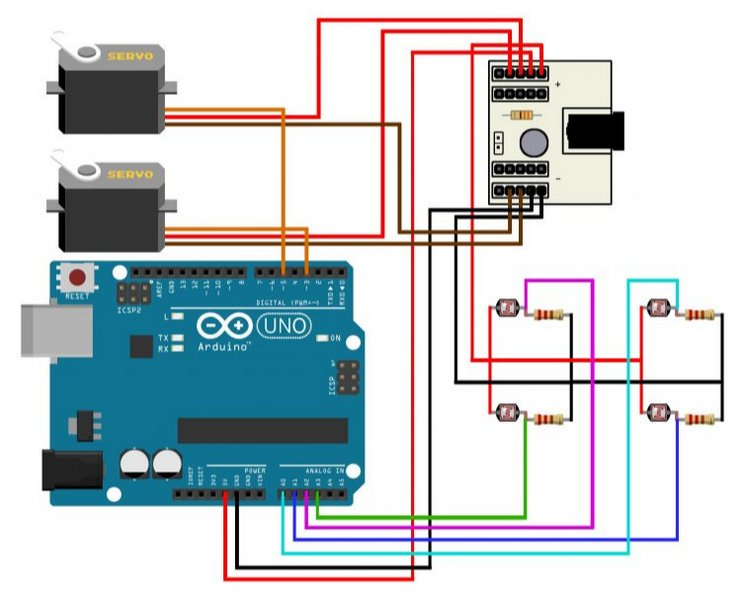
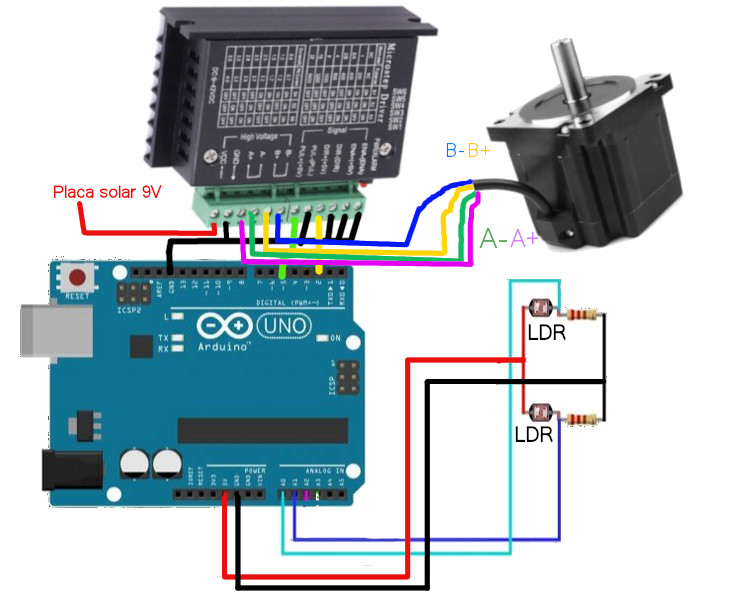
:sparkles: mudanca no motor

diff --git a/README.md b/README.md
@@ -4,29 +4,22 @@ Instruções de montagem para o trabalho Neosymbiota Lucens tentativa 1
 
 Essa parte do trabalho (do rastreador de luz) foi montado a partir da [ref 1](https://www.usinainfo.com.br/blog/rastreador-solar-com-arduino-um-seguidor-solar-atraves-de-ldr/?srsltid=AfmBOopmhUIaa4iWFgExYoY_OMAmqnunysOihkISRG3wj58gcAvz8ka0).
 O rastreador usa LDR (Light Dependent Resistor, isto é, resistores variáveis com a luz) para detectar a presença de luz em 4 quadrantes divididos por uma altura, de modo que faça sombra nos demais LDRs quando não está alinhado com a fonte de luz.
-Para ajustar a posição do circuito de modo a se alinhar com a fonte de luz, foram usados 2 servo motores MG966R, que são motores servo de rotação CONTÍNUA. Um motor gira entre esquerda e direita na horizontal, e o outro gira para cima e para baixo, na vertical, perpendicular ao outro motor.
+Para ajustar a posição do circuito de modo a se alinhar com a fonte de luz, foram usados 1 motor de passo Nema 23. O motor gira para cima e para baixo, na vertical.
 ```
-            |   
-     A2     |     A0    
-------------|-------------
-     A3     |     A1
-            |
+|            |   
+|     A0     |    
+|-------------
+|     A1     |     
+|            |
 ```
 
-O algoritmo funciona a partir da diferença entre a luz percebida entre os LDRs (conectados em A0, A1, A2, A3). Quando a luz tem mais intensidade:
-- A direita, o motor horizontal gira no sentido ANTI HORARIO
-- A esquerda, o motor horizontal gira no sentido HORARIO
+O algoritmo funciona a partir da diferença entre a luz percebida entre os LDRs (conectados em A0, A1). Quando a luz tem mais intensidade:
 - Acima, o motor vertical gira no sentido ANTI HORARIO
 - Abaixo, o motor vertical gira no sentido HORARIO
 
-## *UMA OBSERVAÇÃO IMPORTANTE*
-
-O servo motor utilizado é de rotação contínua, então, apesar das conexões serem idênticas ao do motor servo de passo, o motor de rotação contínua gira 360 graus. Também, a escrita nele não indica quantos graus o motor virará, na verdade, ele usa 
-- 0 para rotação no sentido HORARIO
-- 90 para PARAR
-- 180 para rotação no sentido ANTI HORARIO
 
 ![Diagrama do projeto](./imgs/rastreador.jpg)
+![Mecânica do projeto](./imgs/Rastreador%20de%20luz%20solar.drawio.png)
 Créditos da imagem para [ref 1](https://www.usinainfo.com.br/blog/rastreador-solar-com-arduino-um-seguidor-solar-atraves-de-ldr/?srsltid=AfmBOopmhUIaa4iWFgExYoY_OMAmqnunysOihkISRG3wj58gcAvz8ka0)
 
 ## Funcionalidades
@@ -41,11 +34,20 @@ Integração do Arduino UNO com
 
 ## Componentes
 
-Proposta de conexões com 2 motores servo e o circuito com 4 LDR para detectar a direção da luz
+Proposta de conexões com 1 motor de passo e o circuito com 2 LDR para detectar a direção da luz
 
 * Bomba
 * Placa solar
 * Bateria 9V recarregável
-* 4 LDR
-* 4 resistores 220 ohm
-* 2 servo motores
+* 2 LDR
+* 2 resistores 220 ohm
+* [1 motor de passo 3A 45kgf cm](https://produto.mercadolivre.com.br/MLB-2028330458-motor-de-passo-nema-34-45kgfcm-3a-router-cnc-_JM#polycard_client=search-nordic&search_layout=grid&position=14&type=item&tracking_id=ecc9325b-f903-4968-a8a2-4356f20a9e44&wid=MLB2028330458&sid=search)
+![Motor de passo](./imgs/motor-passo.png)
+* [Driver para motor de passo TB6600](https://produto.mercadolivre.com.br/MLB-5272675760-placa-controladora-driver-motor-de-passo-4a-42v-tb6600-_JM#polycard_client=search-nordic&search_layout=stack&position=4&type=item&tracking_id=f14acee4-30a2-4d14-ba08-d87b7267c537&wid=MLB5272675760&sid=search)
+* [1 kit de redução 4:1](https://produto.mercadolivre.com.br/MLB-4501588822-kit-reduco-gt2-41-10mm-2080-dentes-furo-5mm-correia-400mm-_JM#polycard_client=search-nordic&search)
+![Polias de redução de torque](./imgs/polias.png)
+* [Mancal + eixo](https://www.mercadolivre.com.br/02-mancal-pedestal-com-rolamento-ucp204--eixo-20mm-x-400mm/up/MLBU1975068392?pdp_filters=item_id%3AMLB3346182395#origin=share&sid=share&wid=MLB3346182395&action=copy)
+![Mancal e eixo](./imgs/mancal.png)
+* [1 acoplador 5mm (polia) para 12,7mm (motor) especificar no pedido](https://produto.mercadolivre.com.br/MLB-1608286009-acoplamento-rigido-varias-medidas-para-motor-_JM?matt_tool=92013967&matt_internal_campaign_id=&matt_word=&matt_source=google&matt_campaign_id=22603531565&matt_ad_group_id=184689824807&matt_match_type=&matt_network=g&matt_device=c&matt_creative=758138322203&matt_keyword=&matt_ad_position=&matt_ad_type=pla&matt_merchant_id=5439757935&matt_product_id=MLB1608286009&matt_product_partition_id=2425720730334&matt_target_id=aud-1966009190540:pla-2425720730334&cq_src=google_ads&cq_cmp=22603531565&cq_net=g&cq_plt=gp&cq_med=pla&gad_source=1&gad_campaignid=22603531565&gclid=Cj0KCQjw58PGBhCkARIsADbDilx1ZdUIPXbaFDZqbduLQUmVu4lyq1_-u31c1q-Mtnt8WzUd3ycn9ScaAgO0EALw_wcB)
+* [1 acoplador 5mm (polia) para 19mm (eixo) especificar no pedido](https://produto.mercadolivre.com.br/MLB-1608286009-acoplamento-rigido-varias-medidas-para-motor-_JM?matt_tool=92013967&matt_internal_campaign_id=&matt_word=&matt_source=google&matt_campaign_id=22603531565&matt_ad_group_id=184689824807&matt_match_type=&matt_network=g&matt_device=c&matt_creative=758138322203&matt_keyword=&matt_ad_position=&matt_ad_type=pla&matt_merchant_id=5439757935&matt_product_id=MLB1608286009&matt_product_partition_id=2425720730334&matt_target_id=aud-1966009190540:pla-2425720730334&cq_src=google_ads&cq_cmp=22603531565&cq_net=g&cq_plt=gp&cq_med=pla&gad_source=1&gad_campaignid=22603531565&gclid=Cj0KCQjw58PGBhCkARIsADbDilx1ZdUIPXbaFDZqbduLQUmVu4lyq1_-u31c1q-Mtnt8WzUd3ycn9ScaAgO0EALw_wcB)
+![acopladores](./imgs/acoplador.png)
